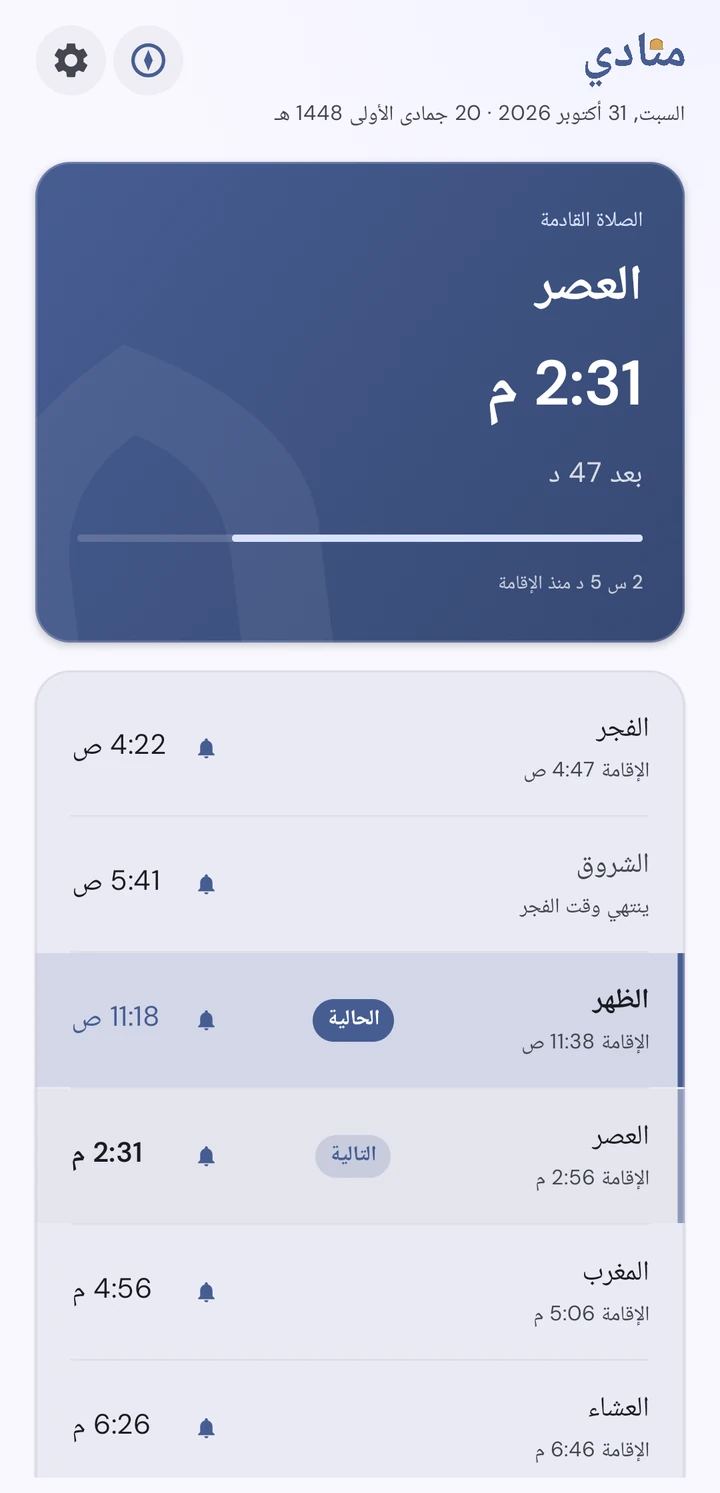
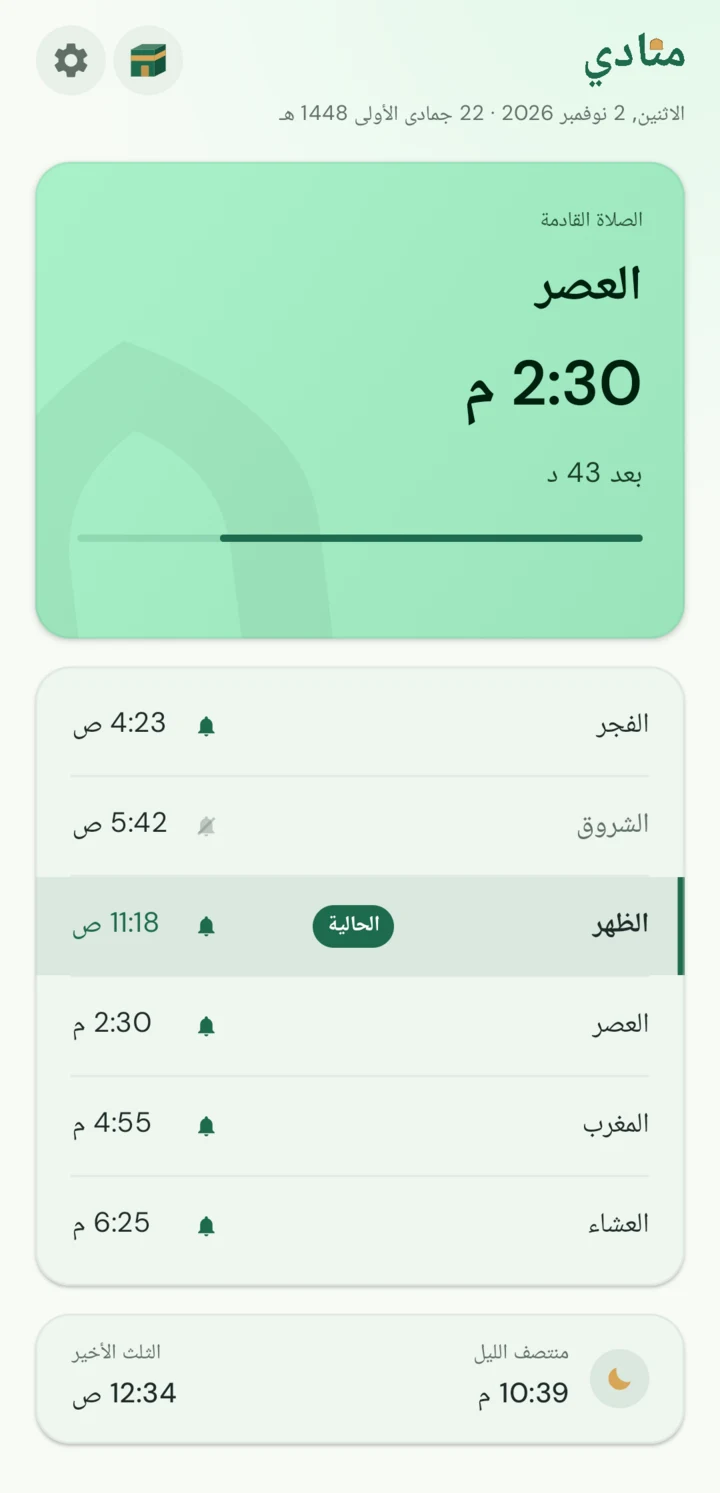
Refresh the site for the current app
Update the widget and iqamah copy, align the privacy wording, and replace the screenshots and social image with the current Munadi UI.

diff --git a/src/data/content.ts b/src/data/content.ts
@@ -134,7 +134,7 @@ export const content: Record<Lang, LandingContent> = {
         {
           icon: 'clock',
           title: 'Iqamah, your way',
-          body: 'Set a separate iqamah offset for every prayer. Changes apply instantly.',
+          body: 'Set how many minutes pass between the adhan and iqamah for each prayer. Changes apply instantly.',
         },
         {
           icon: 'spark',
@@ -154,7 +154,7 @@ export const content: Record<Lang, LandingContent> = {
         {
           icon: 'widget',
           title: 'A widget that waits',
-          body: 'Next prayer and iqamah on your home screen, with system light and dark.',
+          body: 'Next prayer and iqamah on your home screen. One color for every widget — Dynamic, Munadi, Maroon, Sand, Ocean or Rose — and the card stays dark in both app themes.',
         },
         {
           icon: 'globe',
@@ -174,7 +174,7 @@ export const content: Record<Lang, LandingContent> = {
       body: 'Munadi does not guess prayer times from the sun. It carries the Qatar Calendar House annual table inside the APK, so every time is the published Qatari time—even in airplane mode.',
       points: [
         'Qatar Calendar House annual table',
-        'Doha iqamah defaults, editable per prayer',
+        'Qatar iqamah defaults, editable per prayer',
         'Islamic midnight and the last third of the night',
         'Follows your Android 12/24-hour setting',
       ],
@@ -272,7 +272,7 @@ export const content: Record<Lang, LandingContent> = {
         {
           icon: 'clock',
           title: 'الإقامة كما تريد',
-          body: 'حدّد فارق الإقامة لكل صلاة على حدة. التغييرات تُطبّق فورًا.',
+          body: 'حدّد عدد الدقائق بين الأذان والإقامة لكل صلاة. تُطبّق التغييرات فورًا.',
         },
         {
           icon: 'spark',
@@ -292,7 +292,7 @@ export const content: Record<Lang, LandingContent> = {
         {
           icon: 'widget',
           title: 'ودجة تنتظرك',
-          body: 'الصلاة القادمة والإقامة على شاشتك الرئيسية، بألوان النظام الفاتحة والداكنة.',
+          body: 'الصلاة القادمة والإقامة على شاشتك الرئيسية. لون واحد لجميع الودجات — ديناميكي، منادي، عنابي، رملي، محيطي أو وردي — وتبقى البطاقة داكنة في المظهرين.',
         },
         {
           icon: 'globe',
@@ -312,7 +312,7 @@ export const content: Record<Lang, LandingContent> = {
       body: 'لا يخمّن منادي مواقيت الصلاة من موقع الشمس. بل يحمل جدول تقويم قطر الدائم السنوي داخل التطبيق، لتكون كل مواقيت هي المواقيت القطرية المنشورة — حتى في وضع الطيران.',
       points: [
         'جدول تقويم قطر الدائم السنوي',
-        'إقامة الدوحة الافتراضية، قابلة للتعديل لكل صلاة',
+        'إقامة قطر الافتراضية، قابلة للتعديل لكل صلاة',
         'منتصف الليل الإسلامي والثلث الأخير من الليل',
         'يتبع إعداد 12/24 ساعة في أندرويد',
       ],
